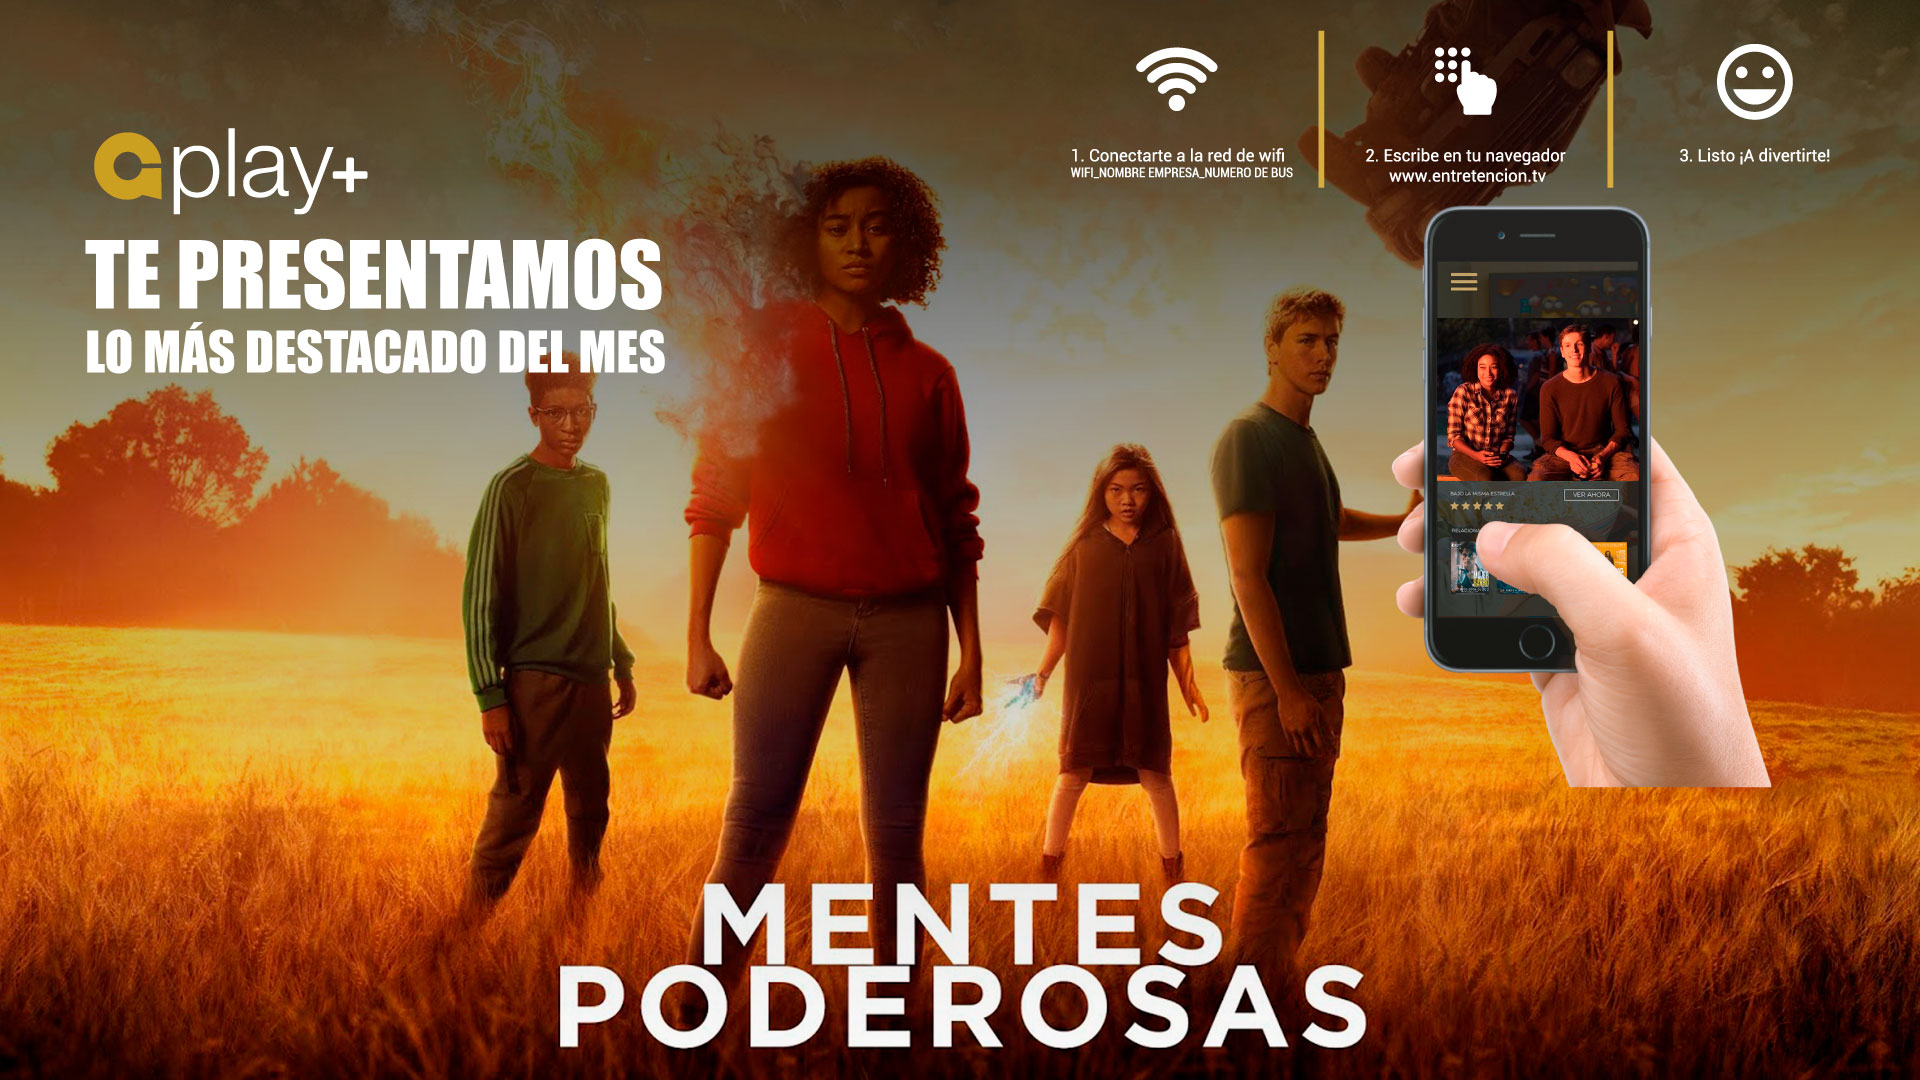
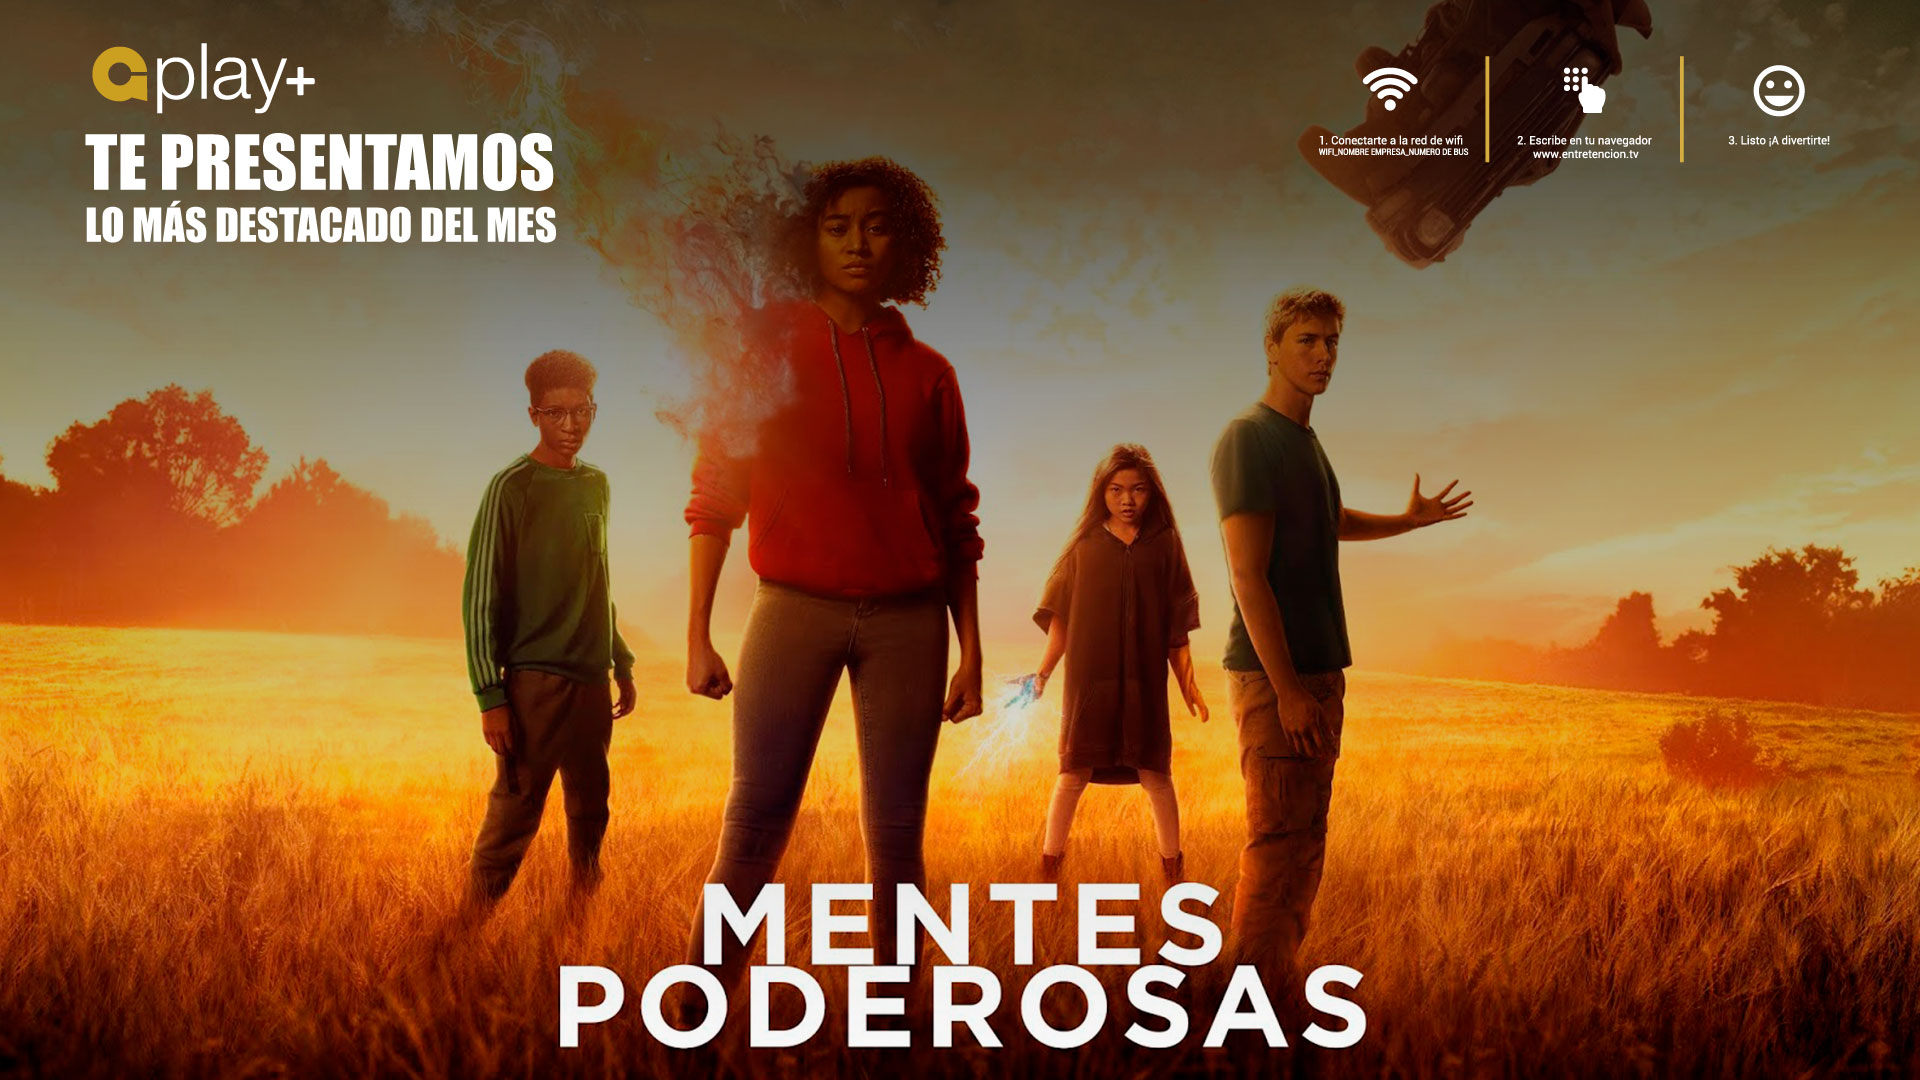
cambio img gplay con mano

diff --git a/src/components/ImgHome.vue b/src/components/ImgHome.vue
@@ -4,23 +4,23 @@
     <img :src="imgbg" class="img-ppal"/>
     <div class="cinta">
       <div>
-        <img src="/static/img/Cinta-superior.png" class="img-cinta1">
+        <img :src="cintaimg" class="img-cinta1">
       </div>
       
       <div class="img-peqe-cinta">
-        <a v-on:click="changeimg('uno.jpg', 0)">
+        <a v-on:click="changeimg('uno.jpg', 1)">
           <img src="/static/img/pequena1.png">
         </a>
-        <a v-on:click="changeimg('dos.jpg', 1)">
+        <a v-on:click="changeimg('dos.jpg', 2)">
           <img src="/static/img/pequena2.png">
         </a>
-        <a v-on:click="changeimg('tres.jpg', 2)">
+        <a v-on:click="changeimg('tres.jpg', 3)">
           <img src="/static/img/pequena3.png">
         </a>
-        <a v-on:click="changeimg('cuatro.jpg', 3)">
+        <a v-on:click="changeimg('cuatro.jpg', 4)">
           <img src="/static/img/pequena4.png">
         </a>
-        <a v-on:click="changeimg('cinco.jpg', 4)">
+        <a v-on:click="changeimg('cinco.jpg', 5)">
           <img src="/static/img/pequena5.png">
         </a>
       </div>
@@ -36,7 +36,8 @@
       return {
         imgbg: '/static/img/uno.jpg',
         imagenes: ['uno.jpg', 'dos.jpg', 'tres.jpg', 'cuatro.jpg', 'cinco.jpg'],
-        imgnumber: 0
+        imgnumber: 1,
+        cintaimg: '/static/img/cinta1.png'
       }
     },
     mounted () {
@@ -47,16 +48,23 @@
     methods:{
       changeimg(imgname, num){
         this.imgbg = 'static/img/' + imgname
-        this.imgnumber = num
+        
+        this.cintaimg = 'static/img/cinta' + num + '.png'
+
+        // console.log('click img grande', this.imgbg)
+        // console.log('click img cinta', this.cintaimg)
       },
       updateImg () {
-        if(this.imgnumber === 4){
-          this.imgnumber = 0
+        if(this.imgnumber === 5){
+          this.imgnumber = 1
         }
         else{
           this.imgnumber++
         }
-        this.imgbg = '../../static/img/' + this.imagenes[this.imgnumber]
+        this.imgbg = '../../static/img/' + this.imagenes[this.imgnumber - 1]
+        this.cintaimg = 'static/img/cinta' + this.imgnumber + '.png'
+        // console.log('time, img grande', this.imgbg)
+        // console.log('time, img cinta', this.cintaimg)
       }
     },
     beforeDestroy() {

diff --git a/src/endpoints.js b/src/endpoints.js
@@ -7,6 +7,6 @@ export default {
   base: base,
   media: `${base}:${port}/${media}/`,
   weather: 'https://api.openweathermap.org/data/2.5/weather',
-  app: 'https://mel-2-backend.gestsol.cl/api'
-  // app: 'http://192.168.12.137:4000/api'
+  // app: 'https://mel-2-backend.gestsol.cl/api'
+  app: 'http://192.168.12.137:4000/api'
 }
